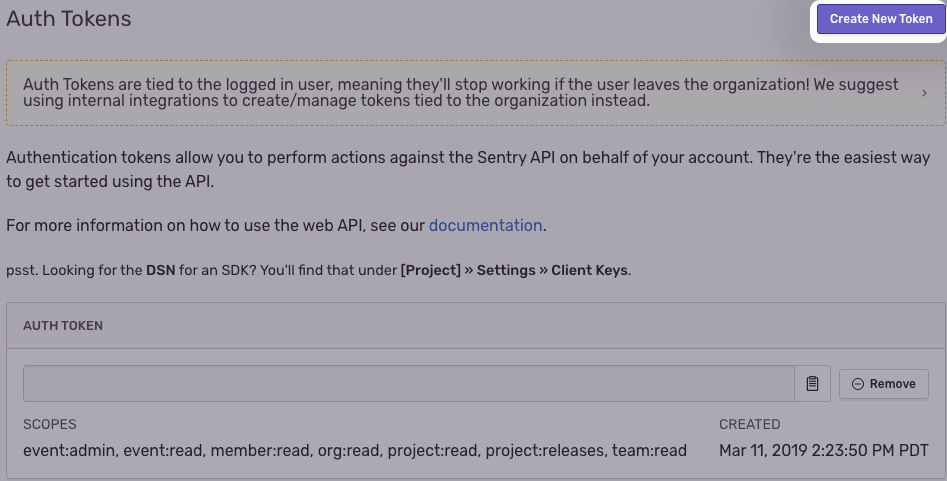
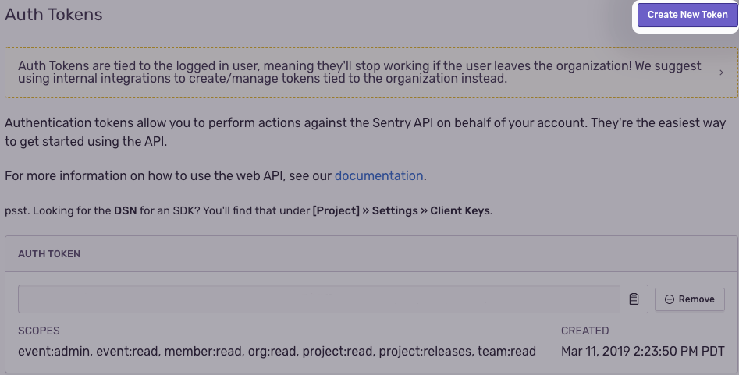
experimenting with us-token image width

diff --git a/src/collections/_documentation/workflow/user-settings.md b/src/collections/_documentation/workflow/user-settings.md
@@ -135,7 +135,7 @@ A shortcut to the Emails panel can be found at the bottom of this section.
 
 The email address used to login to your Sentry account is by default your primary email address. An additional email address can be added under the *Add Secondary Emails* section.
 
-[{% asset user-settings/us-eprime.png alt="Primary email field in Emails under User Settings" %}]({% asset user-settings/us-eprime.png @path %})
+[{% asset user-settings/us-eprime.png alt="Primary email field in Emails under User Settings" width="" %}]({% asset user-settings/us-eprime.png @path %})
 
 {% capture __alert_content -%}
 
@@ -153,7 +153,7 @@ A shortcut to the *Notifications* panel can be found at the bottom of this secti
 
 As part of our compliance with the EU’s General Data Protection Regulation (GDPR), you would only receive marketing campaign emails after explicitly opting-in to any of the listed categories. 
 
-[{% asset user-settings/us-subs.png alt="Subscriptions section under User Settings" %}]({% asset user-settings/us-subs.png @path %})
+[{% asset user-settings/us-subs.png alt="Subscriptions section under User Settings" width="" %}]({% asset user-settings/us-subs.png @path %})
 
 ## Authorized Applications
 
@@ -169,7 +169,7 @@ We integrate with several identity providers, like Okta, OneLogin, Auth0, and Yu
 
 Closing your Sentry account automatically removes all data associated with your account. If your account is the sole owner of an organization, this organization will be deleted. Organizations with multiple owners will remain unchanged.
 
-[{% asset user-settings/us-close.png alt="Close Account button in Close Account section under User Settings" %}]({% asset user-settings/us-close.png @path %})
+[{% asset user-settings/us-close.png alt="Close Account button in Close Account section under User Settings" width="" %}]({% asset user-settings/us-close.png @path %})
 
 {% capture __alert_content -%}
 
@@ -194,4 +194,4 @@ Integrating your application with Sentry allows you to automatically send events
 
 Authentication tokens allow you to perform actions against the Sentry API on behalf of your account. To create one, click the *Create New Token* button.
 
-[{% asset user-settings/us-token.png alt="Create New Token button in the Auth Tokens section under User Settings" width="473.5" %}]({% asset user-settings/us-token.png @path %})
+[{% asset user-settings/us-token.png alt="Create New Token button in the Auth Tokens section under User Settings" %}]({% asset user-settings/us-token.png @path %})
